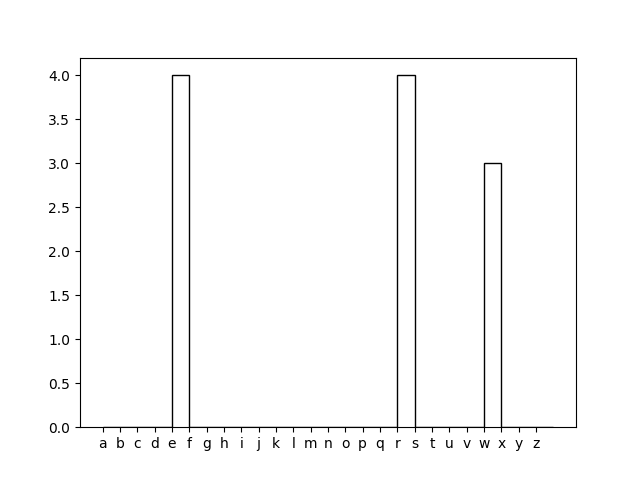
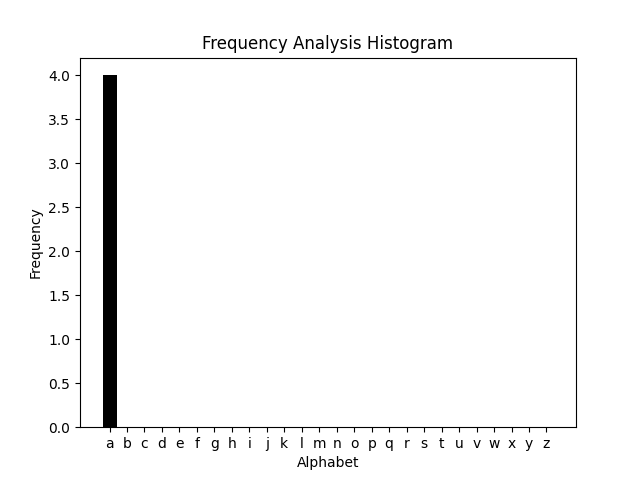
Fixed analysis plot generation

Changed region(s): [[0.1562, 0.1562, 0.8438, 0.9688], [0.3125, 0.0625, 0.7188, 0.125], [0.0312, 0.4375, 0.0625, 0.5938]]

diff --git a/templates/chat.html b/templates/chat.html
@@ -7,33 +7,38 @@
 {% block main %}
     <script>
         function scrollToBottom() {
-            window.scrollTo(0, document.body.scrollHeight);
+            var messagesDiv = document.getElementById('message-container');
+            messagesDiv.scrollTop = messagesDiv.scrollHeight;
         }
         history.scrollRestoration = "manual";
         window.onload = scrollToBottom;
     </script>
 
 
-    <h2>You are chatting with {{user}}</h2>
+    <h3 class="chat-head">You are chatting with {{user}}</h3>
 
-    <div class="messages">
-        {% for message in messages %}
-        
-        <div class="message{% if message.sender_username!=user %} right{% endif %}">
-            <div class="message-user">{{message.sender_username}}</div>
-            <div class="message-text">{% if decrypted and messageid==message.id %} {{decrypted}} {% else %} {{message.message}} {% endif %}</div>
-            <div class="message-decrypt">
-                <form action="/chat/{{chatid}}" class="message-form" id='selectForm' method="post">
-                    <input type="hidden" name="message-id" value="{{message.id}}">
-                    <input type="hidden" name="message-text" value="{{message.message}}">
-                    <textarea class="form-control" id="message-key" name="message-key" rows="1"></textarea>
-                    <button class="btn" type="submit" value="">Decrypt</button>
-                </form>
+    <div class="overflow-auto" id="message-container">
+        <div class="messages">
+            {% for message in messages %}
+            
+            <div class="message{% if message.sender_username!=user %} right{% endif %}">
+                <div class="message-user">{{message.sender_username}}</div>
+                <div class="message-text">{% if decrypted and messageid==message.id %} {{decrypted}} {% else %} {{message.message}} {% endif %}</div>
+                <div class="message-decrypt">
+                    <form action="/chat/{{chatid}}" class="message-form" id='selectForm' method="post">
+                        <input type="hidden" name="user" value="{{user}}">
+                        <input type="hidden" name="message-id" value="{{message.id}}">
+                        <input type="hidden" name="message-text" value="{{message.message}}">
+                        <textarea class="form-control" id="message-key" name="message-key" rows="1" required></textarea>
+                        <button class="btn" type="submit" value="">Decrypt</button>
+                    </form>
+                </div>
+                <div class="message-date">{{message.datetime}}</div>
             </div>
-            <div class="message-date">{{message.datetime}}</div>
+        {% endfor %}
         </div>
-    {% endfor %}
     </div>
+
 
     <div class="send">
         <form action="/chat/{{chatid}}" method="post">
@@ -42,7 +47,9 @@
             
             <label for="key">Key</label>
             <textarea class="form-control" id="key" name="key" rows="1" required></textarea>
-    
+            
+            <input type="hidden" name="user" value="{{user}}">
+
             <button class="btn" type="submit">Send</button>
         </form>
     </div>

diff --git a/templates/analysis.html b/templates/analysis.html
@@ -6,13 +6,15 @@
 
 {% block main %}
     <div class="container">
-        <form action="/analysis" method="post">
+        <form action="/analysis" id="analysisForm" method="post">
 
             <label for="encrypted">Encrypted text</label>
             <textarea class="form-control" id="encrypted" name="encrypted" rows="3" required>{{encrypted}}</textarea>
 
             <label for="keylength">Key Length</label>
-            <input class="form-control" type="number" min="1" id="keylength" name="keylength" placeholder="length"> 
+            <input class="form-control" type="number" min="1" id="keylength" name="keylength" placeholder="length" value="{{keylength}}"> 
+
+            <input type="hidden" id="row" name="row" value="1">
 
             <button class="btn" type="submit">Analyse</button>
         </form>
@@ -24,6 +26,7 @@
             <table class="table">
                 <thead>
                     <tr>
+                        <th>Rows</th>
                         {% for letter, frequency in analysis[0].items() %}
                             <th>{{letter}}</th>
                         {% endfor %}
@@ -32,6 +35,11 @@
                 <tbody>
                     {% for cell in analysis %}
                         <tr>
+                            <th>
+                                <form action="/analysis" id="row" method="post">
+                                    <button class="btn" type="button" onclick="submitRow('{{loop.index}}')">{{loop.index}}</button>
+                                </form>
+                            </th>
                             {% for letter, frequency in cell.items() %}
                                 <td>{{frequency}}</td>
                             {% endfor %}
@@ -49,4 +57,12 @@
         {% endif %} 
 
     </div>
+
+
+    <script>
+        function submitRow(row) {
+            document.getElementById('row').value = row;
+            document.getElementById('analysisForm').submit();
+        }
+    </script>
 {% endblock %}

diff --git a/templates/decrypt.html b/templates/decrypt.html
@@ -40,10 +40,7 @@
                     <p>{{plain}}</p>
                 {% endif %}
                 {% if mode=='guess' %}
-                    {% if plainguess %}
-                        <h4>Guess:</h4>
-                        <p>{{plainguess}}</p>
-                    {% endif %}
+                    <h4>Key guesses</h4>
                     <div class="table-responsive">
                         <table class="table table-hover">
                             <thead>
@@ -57,7 +54,6 @@
                                     <tr>
                                         <td>
                                             <form action="/decrypt" id="guessForm" method="post">
-                                                <input type="hidden" name="keyguess" value="{{key[0]}}">
                                                 <button class="btn" type="button" onclick="submitGuess('{{ key[0] }}')">{{ key[0] }}</button>
                                             </form>
                                         </td>
@@ -67,6 +63,13 @@
                             </tbody>
                         </table>
                     </div>
+
+                    {% if plainguess %}
+                        <div class="plainguess">
+                            <h4>Guess:</h4>
+                            <p>{{plainguess}}</p>
+                        </div>
+                    {% endif %}
                     
                 {% endif %}
             {% endif %} 

diff --git a/static/styles.css b/static/styles.css
@@ -21,9 +21,6 @@ nav{
     max-width: 60%;
 }
 
-.messages{
-    margin-bottom: 170px;
-}
 
 .right {
     text-align: right;
@@ -103,4 +100,17 @@ label{
 
 .table-responsive{
     max-height: 250px;
+    margin-bottom: 50px;
+}
+
+.plainguess{
+    margin-bottom: 50px;
+}
+
+.overflow-auto{
+    max-height: 30vw;
+}
+
+.chat-head{
+    margin-top: -40px;
 }

diff --git a/app.py b/app.py
@@ -35,7 +35,7 @@ def encrypt():
 
 @app.route('/decrypt', methods=["GET","POST"])
 def decrypt():
-    mode = request.form.get("mode")
+    mode = request.form.get("mode","known")
     encrypted = request.form.get("encrypted", "")
     key = request.form.get("key", "a")
     attempt = request.form.get("attempts")
@@ -73,12 +73,21 @@ def analysis():
     if request.method =="POST":
         encrypted=request.form.get("encrypted")
         keylength=int(request.form.get("keylength"))
+        row=int(request.form.get("row"))
+        try:
+            row = int(row)
+            if row <= 0:
+                raise ValueError
+        except (ValueError, TypeError):
+            row = 1
+
+        encryptedrows=crypto.splitRows(encrypted,keylength)
 
         analysis=crypto.frequencyAnalysisVigenere(encrypted,keylength)
         
-        for i in range(keylength):
+        if row:
             img=io.BytesIO()
-            crypto.histFreqAnalysis(encrypted).savefig(img, format='png')
+            crypto.histFreqAnalysis(encryptedrows[(row-1)]).savefig(img, format='png')
             img.seek(0)
 
             img_path = 'static/images/analysis.png'
@@ -86,45 +95,34 @@ def analysis():
                 f.write(img.getbuffer())
 
 
-        return render_template("analysis.html", analysis=analysis, img_path=img_path, encrypted=encrypted, keylength=keylength)
+            return render_template("analysis.html", analysis=analysis, img_path=img_path, encrypted=encrypted, keylength=keylength)
+        
+        else:
+            return render_template("analysis.html", analysis=analysis, encrypted=encrypted, keylength=keylength)
     return render_template("analysis.html")
 
 
 @app.route("/login", methods=["GET", "POST"])
 def login():
-    """Log user in"""
-
-    # Forget any user_id
     session.clear()
 
-    # User reached route via POST (as by submitting a form via POST)
     if request.method == "POST":
-        # Ensure username was submitted
+
         if not request.form.get("username"):
             return apology("must provide username", 403)
 
-        # Ensure password was submitted
         elif not request.form.get("password"):
             return apology("must provide password", 403)
 
-        # Query database for username
         rows = db.execute(
             "SELECT * FROM users WHERE username = ?", request.form.get("username")
         )
-
-        # Ensure username exists and password is correct
         if len(rows) != 1 or not check_password_hash(
             rows[0]["hash"], request.form.get("password")
         ):
             return apology("invalid username and/or password", 403)
-
-        # Remember which user has logged in
         session["user_id"] = rows[0]["id"]
-
-        # Redirect user to home page
         return redirect("/")
-
-    # User reached route via GET (as by clicking a link or via redirect)
     else:
         return render_template("login.html")
     
@@ -162,12 +160,7 @@ def register():
         return render_template("register.html")    
 @app.route("/logout")
 def logout():
-    """Log user out"""
-
-    # Forget any user_id
     session.clear()
-
-    # Redirect user to login form
     return redirect("/")
 
 
@@ -204,13 +197,13 @@ def search():
 @login_required
 def chat(chatid):
     messages=db.execute("SELECT * FROM messages WHERE chat_id=?", chatid)
-    #user=db.execute("SELECT username FROM users WHERE (id = (SELECT sender_id FROM chats WHERE id=?) OR (SELECT receiver_id FROM chats WHERE id=?)) AND id!=?", chatid, chatid, session["user_id"])
     user=request.args.get("user")
     if request.method=="POST":
         text=request.form.get("text")
         key=request.form.get("key")
         message_key=request.form.get("message-key")
         message_text=request.form.get("message-text")
+        user=request.form.get("user")
 
         if message_key and message_text:
             message_id=int(request.form.get("message-id"))

diff --git a/crypto.py b/crypto.py
@@ -67,10 +67,17 @@ def histFreqAnalysis(encrypted, normalize=False): #histogram for frquency analys
        frequencies.append(freqAnalysis[i])
     if normalize==True:
         frequencies=[i/sum(frequencies) for i in frequencies]
-    fig=plt.figure()
-    ax = fig.add_subplot(1,1,1)
-    ax.plot(alphabet,frequencies, linestyle='',marker='')
-    ax.stairs(frequencies, color='black')
+    
+    fig, ax = plt.subplots()
+    ax.bar(np.arange(len(alphabet)), frequencies, align='center', color='black')
+    
+    ax.set_xticks(np.arange(len(alphabet)))
+    ax.set_xticklabels(alphabet)
+    
+    plt.xlabel('Alphabet')
+    plt.ylabel('Frequency')
+    plt.title('Frequency Analysis Histogram')
+
     return fig
 
 
@@ -176,7 +183,7 @@ texto='The Rosetta Stone is a stele composed of granodiorite inscribed with thre
 
 text=substitution(texto,'ghada')
 
-
+print(text)
 '''
 import time
 start_time = time.time()
